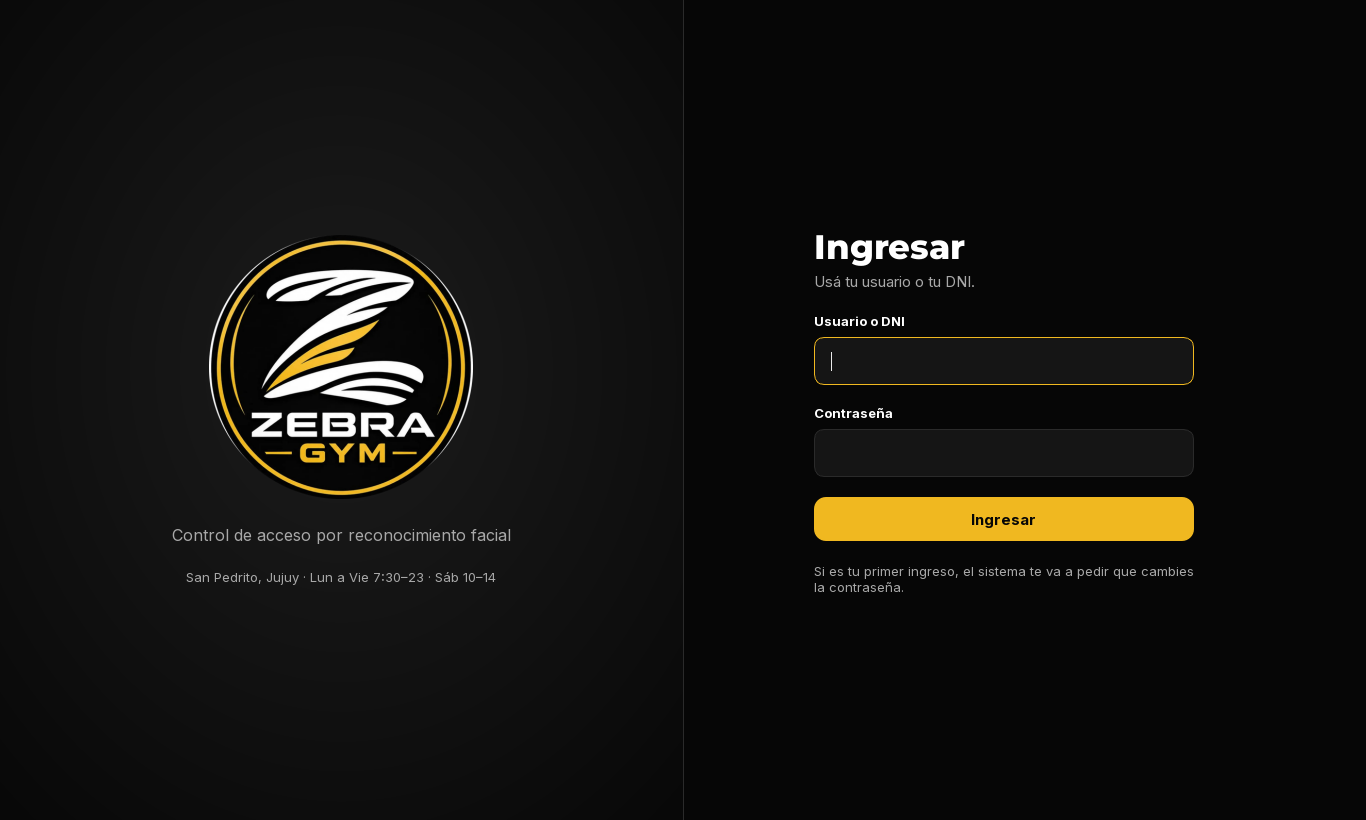
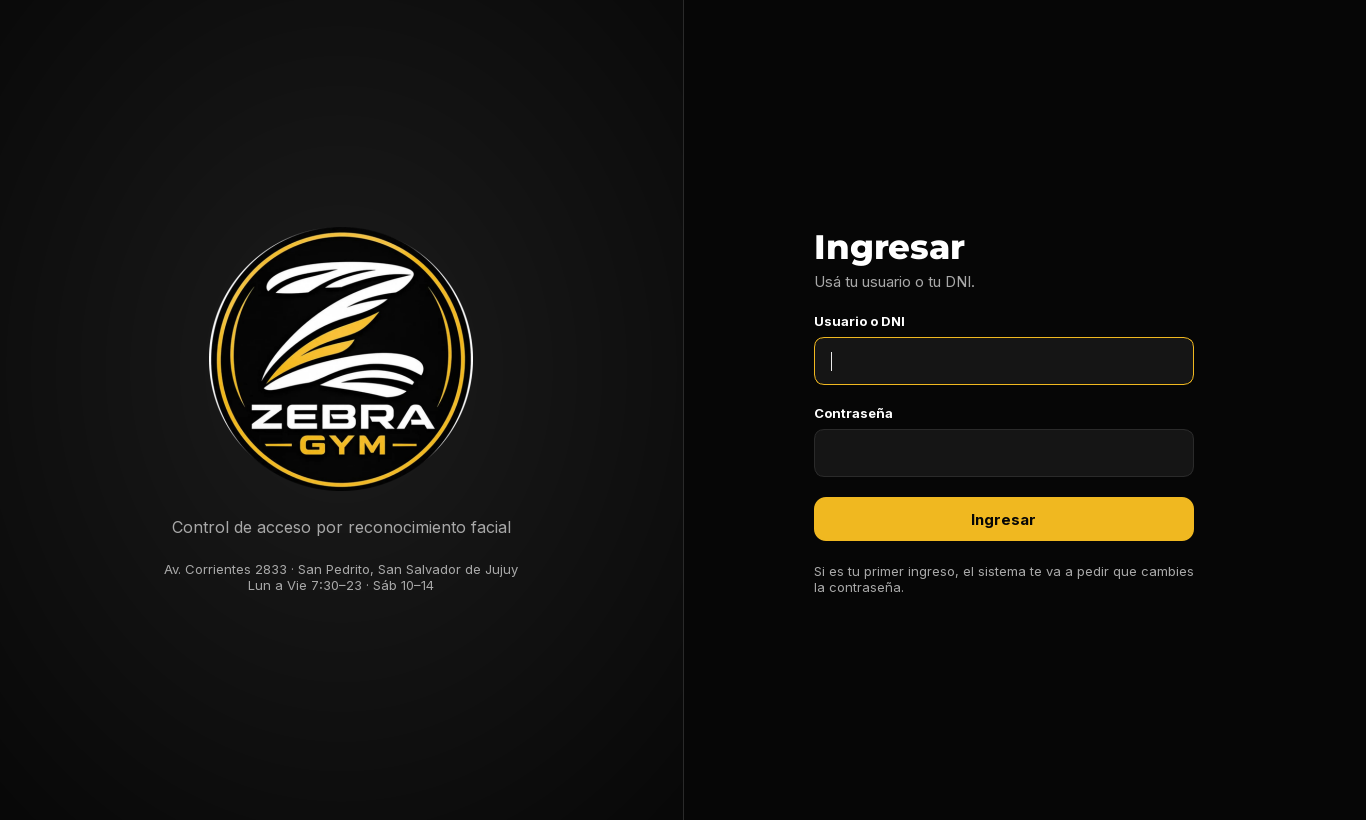
Dirección del gimnasio en el login, los informes y el README
- config/gimnasio.py: nombre, dirección (Av. Corrientes 2833, Y4600 San
  Salvador de Jujuy, barrio San Pedrito) y logo, en un solo lugar.
- Pie del login: "Av. Corrientes 2833 · San Pedrito, San Salvador de Jujuy"
  y debajo el horario armado desde horario_atencion.
- Informes en PDF y Excel: encabezado con logo, "ZebraGym", la dirección y
  la fecha de emisión.
- README con la dirección; captura del login actualizada.

Changed region(s): [[0.1537, 0.2744, 0.369, 0.6098], [0.123, 0.6402, 0.369, 0.7317]]

diff --git a/src/services/exportar.py b/src/services/exportar.py
@@ -1,15 +1,22 @@
 """Exportación de informes de ZebraGym a Excel (openpyxl) y PDF (ReportLab).
-Sin acceso a la base: recibe un Informe ya armado."""
+Sin acceso a la base: recibe un Informe ya armado.
+Encabezado de ambos formatos: logo, "ZebraGym", la dirección y la fecha de
+emisión (datos de config/gimnasio.py)."""
 from dataclasses import dataclass, field
+from datetime import datetime
 from xml.sax.saxutils import escape
 
 from openpyxl import Workbook
+from openpyxl.drawing.image import Image as ImagenExcel
 from openpyxl.styles import Alignment, Font, PatternFill
 from reportlab.lib import colors
 from reportlab.lib.pagesizes import A4, landscape
-from reportlab.lib.styles import getSampleStyleSheet
+from reportlab.lib.styles import ParagraphStyle, getSampleStyleSheet
 from reportlab.lib.units import cm
+from reportlab.platypus import Image as ImagenPdf
 from reportlab.platypus import Paragraph, SimpleDocTemplate, Spacer, Table, TableStyle
+
+from config import gimnasio
 
 DORADO = "F0B820"
 MENSAJE_VACIO = "No hay datos para los filtros elegidos."
@@ -24,6 +31,13 @@ class Informe:
     resumen: list = field(default_factory=list)     # líneas de texto
 
 
+def encabezado(emitido=None):
+    """[nombre, dirección, 'Emitido el dd/mm/aaaa a las HH:MM']."""
+    emitido = emitido or datetime.now()
+    return [gimnasio.NOMBRE, gimnasio.DIRECCION_COMPLETA,
+            f"Emitido el {emitido:%d/%m/%Y} a las {emitido:%H:%M}"]
+
+
 def nombre_archivo(titulo, extension):
     """'Ingresos y rechazos' -> 'ingresos_y_rechazos.xlsx'."""
     import unicodedata
@@ -32,12 +46,23 @@ def nombre_archivo(titulo, extension):
     return f"{base or 'informe'}.{extension}"
 
 
-def exportar_excel(informe, ruta):
+def exportar_excel(informe, ruta, emitido=None):
     libro = Workbook()
     hoja = libro.active
     hoja.title = informe.titulo[:31]
+    # Encabezado: logo en A1:A3 y, al lado, nombre, dirección y fecha de emisión
+    for numero, texto in enumerate(encabezado(emitido), start=1):
+        hoja.cell(numero, 2, texto)
+        hoja.row_dimensions[numero].height = 20
+    hoja["B1"].font = Font(bold=True, size=16)
+    if gimnasio.LOGO.exists():
+        logo = ImagenExcel(str(gimnasio.LOGO))
+        logo.width = logo.height = 72
+        hoja.add_image(logo, "A1")
+    hoja.column_dimensions["A"].width = 12
+    hoja.append([])
     hoja.append([informe.titulo])
-    hoja["A1"].font = Font(bold=True, size=14)
+    hoja.cell(hoja.max_row, 1).font = Font(bold=True, size=14)
     hoja.append([informe.subtitulo])
     for linea in informe.resumen:
         hoja.append([linea])
@@ -53,20 +78,31 @@ def exportar_excel(informe, ruta):
             hoja.append(["" if v is None else v for v in fila])
     else:
         hoja.append([MENSAJE_VACIO])
-    for indice, encabezado in enumerate(informe.encabezados, start=1):
-        largo = max([len(str(encabezado))] + [len(str(f[indice - 1])) for f in informe.filas if f[indice - 1]])
-        hoja.column_dimensions[hoja.cell(fila_encabezado, indice).column_letter].width = min(45, largo + 3)
+    for indice, columna in enumerate(informe.encabezados, start=1):
+        largo = max([len(str(columna))] + [len(str(f[indice - 1])) for f in informe.filas if f[indice - 1]])
+        letra = hoja.cell(fila_encabezado, indice).column_letter
+        hoja.column_dimensions[letra].width = max(hoja.column_dimensions[letra].width or 0, min(45, largo + 3))
     hoja.freeze_panes = hoja.cell(fila_encabezado + 1, 1)
     libro.save(ruta)
     return ruta
 
 
-def exportar_pdf(informe, ruta):
+def exportar_pdf(informe, ruta, emitido=None):
     estilos = getSampleStyleSheet()
     documento = SimpleDocTemplate(str(ruta), pagesize=landscape(A4), leftMargin=1.5 * cm,
                                   rightMargin=1.5 * cm, topMargin=1.5 * cm, bottomMargin=1.5 * cm,
-                                  title=informe.titulo)
-    partes = [Paragraph(f"ZebraGym · {escape(informe.titulo)}", estilos["Title"]),
+                                  title=informe.titulo, author=gimnasio.NOMBRE)
+    nombre, direccion, fecha = encabezado(emitido)
+    titulo_gimnasio = ParagraphStyle("Gimnasio", parent=estilos["Normal"], fontName="Helvetica-Bold",
+                                     fontSize=16, leading=20)
+    datos_gimnasio = [Paragraph(escape(nombre), titulo_gimnasio), Paragraph(escape(direccion), estilos["Normal"]),
+                      Paragraph(escape(fecha), estilos["Normal"])]
+    logo = ImagenPdf(str(gimnasio.LOGO), width=2 * cm, height=2 * cm) if gimnasio.LOGO.exists() else ""
+    cabecera = Table([[logo, datos_gimnasio]], colWidths=[2.4 * cm, None], hAlign="LEFT")
+    cabecera.setStyle(TableStyle([("VALIGN", (0, 0), (-1, -1), "MIDDLE"),
+                                  ("LEFTPADDING", (0, 0), (0, 0), 0)]))
+    partes = [cabecera, Spacer(1, 0.3 * cm),
+              Paragraph(escape(informe.titulo), estilos["Title"]),
               Paragraph(escape(informe.subtitulo), estilos["Normal"])]
     for linea in informe.resumen:
         partes.append(Paragraph(escape(linea), estilos["Normal"]))

diff --git a/tests/test_informes.py b/tests/test_informes.py
@@ -35,15 +35,22 @@ def app():
 # --- Exportación ---
 
 def test_exportar_excel_y_pdf(tmp_path):
-    ruta = exportar_excel(INFORME, tmp_path / "informe.xlsx")
+    from datetime import datetime
+    emitido = datetime(2026, 11, 13, 18, 42)
+    ruta = exportar_excel(INFORME, tmp_path / "informe.xlsx", emitido)
     hoja = load_workbook(ruta).active
     valores = [[c for c in fila if c is not None] for fila in hoja.iter_rows(values_only=True)]
-    assert valores[0] == ["Ingresos y rechazos"]
+    assert valores[:3] == [["ZebraGym"],
+                           ["Av. Corrientes 2833, Y4600 San Salvador de Jujuy, Jujuy (barrio San Pedrito)"],
+                           ["Emitido el 13/11/2026 a las 18:42"]]
+    assert len(hoja._images) == 1                                   # el logo
+    assert ["Ingresos y rechazos"] in valores
     assert ["Fecha", "Hora", "Socio", "DNI", "Plan", "Resultado", "Motivo"] in valores
     assert valores[-1][-1] == "Gimnasio cerrado"
-    pdf = exportar_pdf(INFORME, tmp_path / "informe.pdf")
+    pdf = exportar_pdf(INFORME, tmp_path / "informe.pdf", emitido)
     with open(pdf, "rb") as archivo:
-        assert archivo.read(5) == b"%PDF-"
+        contenido = archivo.read()
+    assert contenido.startswith(b"%PDF-") and b"/Subtype /Image" in contenido     # con el logo
     vacio = Informe("Estado de membresías y cupos", "Al 13/11/2026", ["Socio"], [])
     exportar_pdf(vacio, tmp_path / "vacio.pdf")
     assert load_workbook(exportar_excel(vacio, tmp_path / "vacio.xlsx")).active.max_row >= 3

diff --git a/src/ui/login_window.py b/src/ui/login_window.py
@@ -11,14 +11,16 @@ from ui.componentes import con_rol, etiqueta, logo
 
 
 def pie_login(horario_service):
-    """'San Pedrito, Jujuy · Lun a Vie 7:30–23 · Sáb 10–14', armado desde
-    horario_atencion. Sin conexión a la base muestra solo la ubicación."""
+    """Dirección del gimnasio y, debajo, el horario armado desde horario_atencion:
+    'Av. Corrientes 2833 · San Pedrito, San Salvador de Jujuy\nLun a Vie 7:30–23 · Sáb 10–14'.
+    Sin conexión a la base muestra solo la dirección."""
+    from config.gimnasio import DIRECCION_CORTA
     from services.horario_service import resumen_horario
     try:
         resumen = resumen_horario(horario_service.franjas_semana())
     except Exception:
         resumen = ""
-    return f"{tema.UBICACION} · {resumen}" if resumen else tema.UBICACION
+    return f"{DIRECCION_CORTA}\n{resumen}" if resumen else DIRECCION_CORTA
 
 
 class LoginWindow(QWidget):
@@ -56,6 +58,7 @@ class LoginWindow(QWidget):
         lema = etiqueta(tema.LEMA, "subtitulo")
         lema.setStyleSheet("font-size: 16px;")
         self.pie = etiqueta(pie_login(self._horario), "secundario")
+        self.pie.setAlignment(Qt.AlignmentFlag.AlignHCenter)
         columna = QVBoxLayout(lado)
         columna.addStretch()
         columna.addWidget(logo(264), alignment=Qt.AlignmentFlag.AlignHCenter)

diff --git a/tests/test_ui_tema.py b/tests/test_ui_tema.py
@@ -95,10 +95,11 @@ def test_sin_base_de_datos_la_ventana_igual_abre(app):
 
 def test_pie_del_login_sale_del_horario(app):
     from ui.login_window import LoginWindow, pie_login
-    assert pie_login(_HorarioFalso()) == "San Pedrito, Jujuy · Lun a Vie 7:30–23 · Sáb 10–14"
-    assert pie_login(_HorarioFalso(falla=True)) == "San Pedrito, Jujuy"
+    direccion = "Av. Corrientes 2833 · San Pedrito, San Salvador de Jujuy"
+    assert pie_login(_HorarioFalso()) == f"{direccion}\nLun a Vie 7:30–23 · Sáb 10–14"
+    assert pie_login(_HorarioFalso(falla=True)) == direccion
     login = LoginWindow(auth_service=object(), horario_service=_HorarioFalso())
-    assert login.pie.text() == "San Pedrito, Jujuy · Lun a Vie 7:30–23 · Sáb 10–14"
+    assert login.pie.text() == f"{direccion}\nLun a Vie 7:30–23 · Sáb 10–14"
 
 
 @pytest.mark.parametrize("nombre, esperado", [

diff --git a/src/config/gimnasio.py b/src/config/gimnasio.py
@@ -1,0 +1,17 @@
+"""Datos del gimnasio: el único lugar con el nombre, la dirección y el logo.
+Los usan el login, los informes exportados y el resto de la interfaz."""
+from pathlib import Path
+
+NOMBRE = "ZebraGym"
+CALLE = "Av. Corrientes 2833"
+CODIGO_POSTAL = "Y4600"
+CIUDAD = "San Salvador de Jujuy"
+PROVINCIA = "Jujuy"
+BARRIO = "San Pedrito"
+
+# "Av. Corrientes 2833 · San Pedrito, San Salvador de Jujuy" (pie del login)
+DIRECCION_CORTA = f"{CALLE} · {BARRIO}, {CIUDAD}"
+# "Av. Corrientes 2833, Y4600 San Salvador de Jujuy, Jujuy (barrio San Pedrito)"
+DIRECCION_COMPLETA = f"{CALLE}, {CODIGO_POSTAL} {CIUDAD}, {PROVINCIA} (barrio {BARRIO})"
+
+LOGO = Path(__file__).resolve().parents[2] / "assets" / "logo.png"

diff --git a/src/ui/tema.py b/src/ui/tema.py
@@ -8,13 +8,14 @@ from pathlib import Path
 
 from PySide6.QtGui import QFont, QFontDatabase, QIcon
 
+from config import gimnasio
+
 RAIZ = Path(__file__).resolve().parents[2]
 ASSETS = RAIZ / "assets"
-LOGO = ASSETS / "logo.png"
+LOGO = gimnasio.LOGO
 FUENTES = ("Montserrat[wght].ttf", "Inter[opsz,wght].ttf")
 
-NOMBRE_GIMNASIO = "ZebraGym"
-UBICACION = "San Pedrito, Jujuy"
+NOMBRE_GIMNASIO = gimnasio.NOMBRE      # nombre y dirección: config/gimnasio.py
 LEMA = "Control de acceso por reconocimiento facial"
 
 # Paleta

diff --git a/README.md b/README.md
@@ -3,7 +3,8 @@
 **Autora:** Magali Laureano · IES N°7 Populorum Progressio
 
 Aplicación de escritorio (Python 3.12 + PySide6 + PostgreSQL 16) para el
-gimnasio ZebraGym:
+gimnasio ZebraGym, en Av. Corrientes 2833, Y4600 San Salvador de Jujuy, Jujuy
+(barrio San Pedrito):
 
 - Los **socios** entran mirando a la cámara.
 - Los **entrenadores** marcan su llegada y su salida con la cara.
@@ -109,6 +110,10 @@ Las reglas de los casos especiales, como el pago parcial, la renovación
 anticipada o el fichaje fuera de turno, están en
 [`docs/casos_especiales.md`](docs/casos_especiales.md).
 
+El nombre, la dirección y el logo del gimnasio se configuran en un solo
+lugar: `src/config/gimnasio.py`. De ahí los toman el pie del login y el
+encabezado de los informes exportados.
+
 ## Estructura
 
 ```
@@ -119,7 +124,7 @@ asistencia-facial/
 ├── scripts/                cargar_socio_prueba.py
 ├── src/
 │   ├── main.py
-│   ├── config/             conexión a PostgreSQL
+│   ├── config/             conexión a PostgreSQL y datos del gimnasio
 │   ├── hardware/           cámara
 │   ├── repositories/       consultas SQL por tabla
 │   ├── services/           reglas de negocio, permisos y reconocimiento facial
